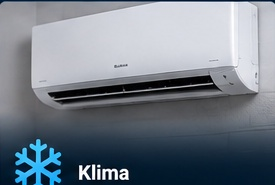
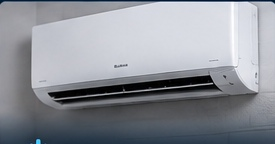
Add files via upload

diff --git a/styles.css b/styles.css
@@ -5,3 +5,42 @@
 .services article:after{top:80px;background:linear-gradient(transparent,#071521 75%)}
 .services article div{bottom:14px}
 @media(max-width:900px){.services img{height:165px}}
+
+/* FINAL CLEAN IMAGE FIX */
+.heroimg img{
+  width:100%;height:100%;object-fit:cover;
+  object-position:48% center;
+}
+.services article{
+  height:260px;
+  display:flex;
+  flex-direction:column;
+  overflow:hidden;
+  background:#081b2a;
+}
+.services article>img{
+  position:relative;
+  width:100%;
+  height:145px;
+  flex:0 0 145px;
+  object-fit:cover;
+  object-position:center center;
+  opacity:1;
+  display:block;
+}
+.services article:after{display:none!important}
+.services article>div{
+  position:relative!important;
+  left:auto!important;right:auto!important;bottom:auto!important;
+  padding:13px 16px 14px;
+  background:#081b2a;
+  z-index:2;
+}
+.services article>div b{display:block;margin-bottom:5px}
+.services article>div p{margin:0 0 7px;line-height:1.25}
+@media(max-width:900px){
+  .heroimg{height:430px}
+  .heroimg img{object-position:center center}
+  .services article>img{height:170px;flex-basis:170px}
+  .services article{height:285px}
+}

diff --git a/README.md b/README.md
@@ -1,2 +1,2 @@
 # HAUSTECHNIKDE
-Final photo-fixed GitHub Pages build.
+Clean-image GitHub Pages build.
